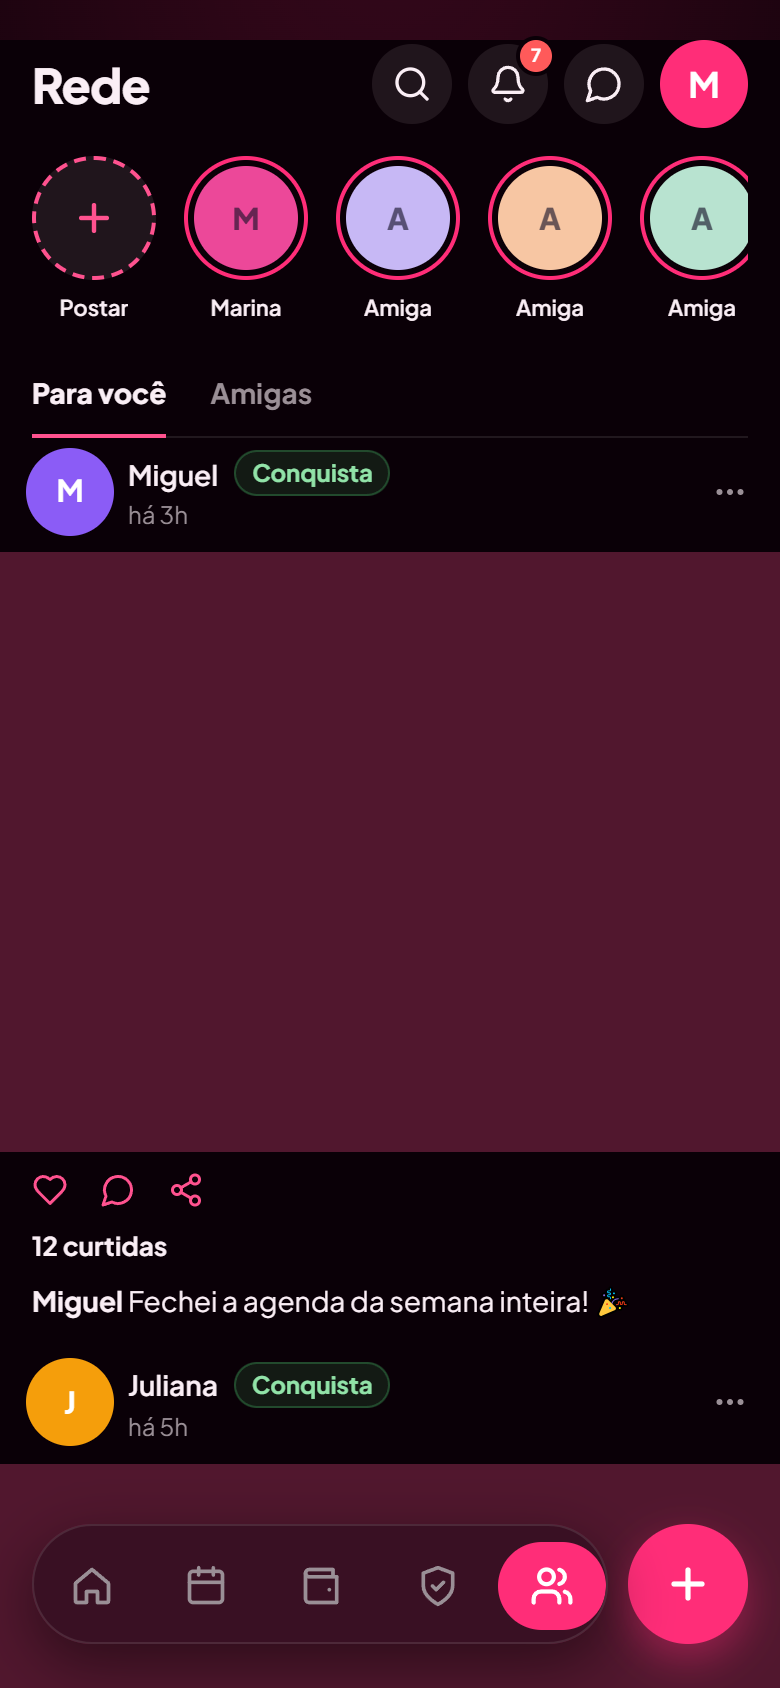
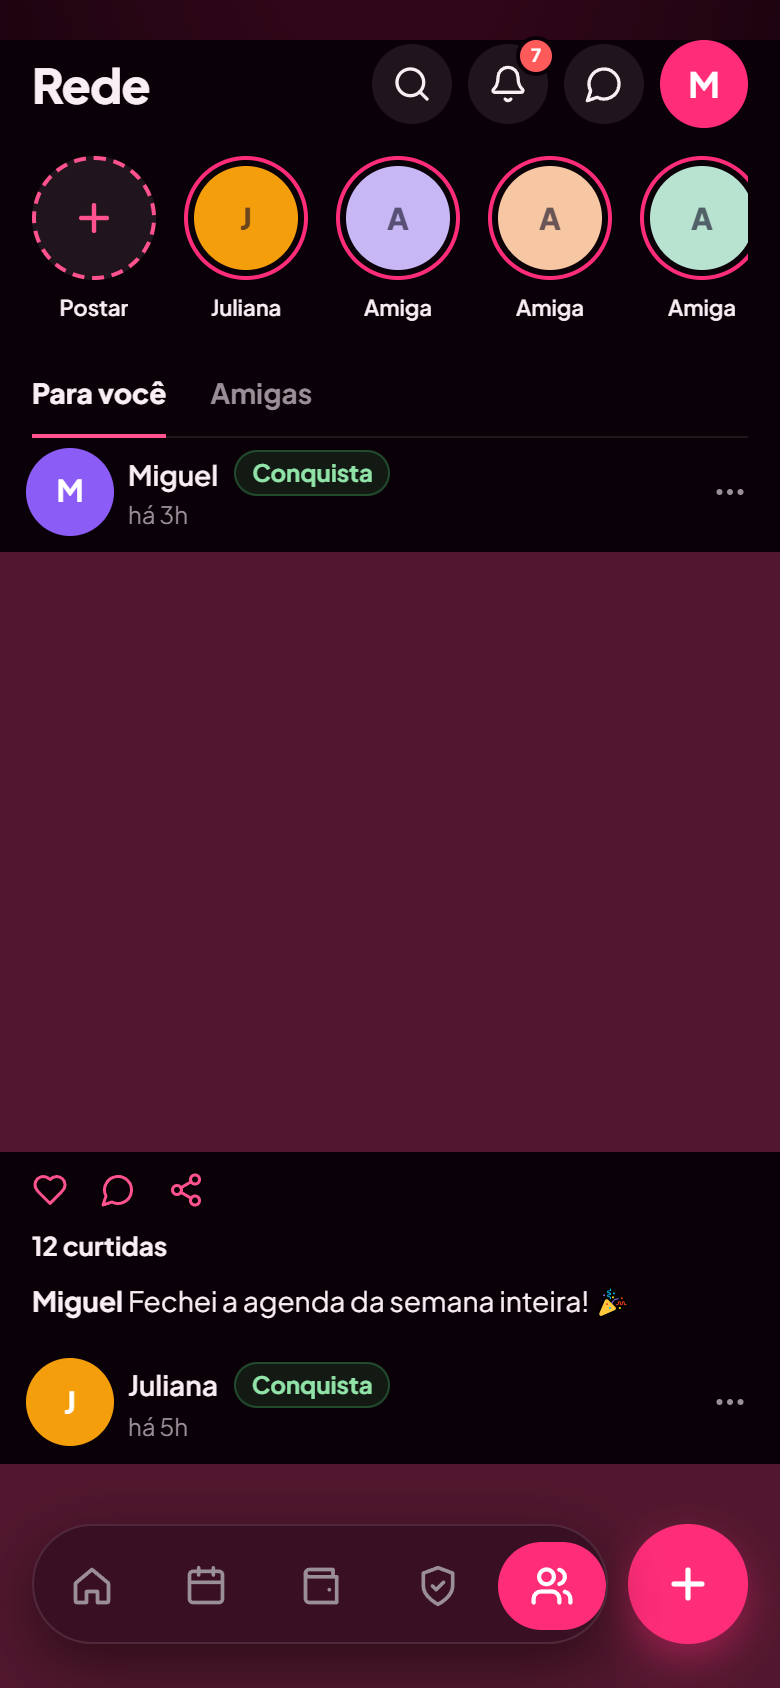
fix(pixel): amizade da Juliana e ordem da fileira de amigas
Erro meu no bloco anterior: o objeto de PERFIL da Juliana foi parar dentro do
array de amizades, com user_id e nome_exibicao no lugar de solicitante_id e
status. Ela ficava sem amizade aceita e o array levava uma linha malformada.
Agora é uma amizade de verdade, e o perfil segue onde sempre esteve.

A Marina foi para o fim do array, depois das 4 da referência, para a fileira
do topo começar pelas quatro que a referência desenha. Ela continua
alcançável deslizando; nenhuma amiga some.

O número de pixel praticamente não muda com isso (6,2538% para 6,2558%): a
ordem da fileira não vem do array, vem da consulta. Fica registrado para quem
for atacar esse resíduo. O conserto do dado vale por si.

Changed region(s): [[0.2462, 0.0924, 0.4, 0.1848]]

diff --git a/lib/mockAppData.ts b/lib/mockAppData.ts
@@ -438,16 +438,6 @@ export function buildMockAppSeed(opts?: {
       criado_em: daysFromNow(-18),
       atualizado_em: daysFromNow(-2),
     },
-    {
-      user_id: FRIEND_ID,
-      nome_exibicao: "Marina Alves",
-      cor_avatar: "#ec4899",
-      bio: "Extensão de cílios",
-      avatar_url: null,
-      area_atuacao: "Cílios",
-      criado_em: daysFromNow(-30),
-      atualizado_em: daysFromNow(-5),
-    },
     // As 4 da fileira da referência (tela Rede): mesmo nome, mesma inicial
     // e a mesma cor de avatar que ela desenha.
     {
@@ -470,6 +460,16 @@ export function buildMockAppSeed(opts?: {
       criado_em: daysFromNow(-29 + i),
       atualizado_em: daysFromNow(-4),
     })),
+    {
+      user_id: FRIEND_ID,
+      nome_exibicao: "Marina Alves",
+      cor_avatar: "#ec4899",
+      bio: "Extensão de cílios",
+      avatar_url: null,
+      area_atuacao: "Cílios",
+      criado_em: daysFromNow(-30),
+      atualizado_em: daysFromNow(-5),
+    },
   ];
   // 15 posts -- o suficiente pra exercitar a paginação do feed
   // (FEED_PAGE_SIZE = 10: página 1 cheia + página 2 com resto, `hasMore`
@@ -771,23 +771,17 @@ export function buildMockAppSeed(opts?: {
       rede_amizades: [
         // Marina aceita (era "pendente": a solicitação em aberto fazia
         // nascer um bloco que a referência não tem, acima da dobra).
+        // Marina é a amizade MAIS ANTIGA de propósito: a fileira do topo
+        // mostra as mais recentes primeiro, e a referência desenha as 4
+        // "Amiga N" nas quatro primeiras posições. Marina fica depois
+        // delas, alcançável deslizando.
         {
-          id: "mock-amizade-marina",
-          solicitante_id: FRIEND_ID,
+          id: "mock-amizade-juliana",
+          solicitante_id: "mock-amiga-juliana",
           destinatario_id: uid,
           status: "aceita",
-          criado_em: daysFromNow(-10),
-          respondido_em: daysFromNow(-9),
-        },
-        {
-          user_id: "mock-amiga-juliana",
-          nome_exibicao: "Juliana",
-          cor_avatar: "#f59e0b",
-          bio: "",
-          avatar_url: null,
-          area_atuacao: "",
           criado_em: daysFromNow(-26),
-          atualizado_em: daysFromNow(-3),
+          respondido_em: daysFromNow(-25),
         },
         ...AMIGAS_DA_REFERENCIA.map((a, i) => ({
           id: `mock-amizade-${a.id}`,
@@ -797,6 +791,14 @@ export function buildMockAppSeed(opts?: {
           criado_em: daysFromNow(-28 + i),
           respondido_em: daysFromNow(-27 + i),
         })),
+        {
+          id: "mock-amizade-marina",
+          solicitante_id: FRIEND_ID,
+          destinatario_id: uid,
+          status: "aceita",
+          criado_em: daysFromNow(-60),
+          respondido_em: daysFromNow(-59),
+        },
       ],
       rede_conversas: [],
       rede_conversas_participantes: [],

diff --git a/docs/jornada/prints/pixel/rede/rede-390-claro-pink-neon-estilos.md b/docs/jornada/prints/pixel/rede/rede-390-claro-pink-neon-estilos.md
@@ -2,8 +2,8 @@
 
 - mockup: `5-telas-8-temas-claro-escuro.html`
 - app: `http://localhost:3107/dev-preview/app`
-- pareados 91 · divergem 62 · só no mockup 22 · só no app 471
-- impacto total: **78.114**
+- pareados 91 · divergem 63 · só no mockup 22 · só no app 471
+- impacto total: **76.822**
 - famílias no mockup: plus jakarta sans (27)
 - famílias no app: plus jakarta sans (146)
 
@@ -40,18 +40,16 @@ Em cada célula: **mockup** → app.
 | 1.565 | “Juliana” | largura | `282px` → `44.9px` |
 | 1.565 | “Juliana” | altura | `21px` → `20px` |
 | 1.31 | “Rede” | largura | `214px` → `58.8px` |
-| 1.162 | “M” | fontSize | `15px` → `17.6px` |
-| 1.162 | “M” | fontWeight | `800` → `700` |
-| 1.162 | “M” | lineHeight | `22.5px` → `26.4px` |
-| 1.162 | “M” | borderRadius | `50% 50% 50% 50%` → `9999px 9999px 9999px 9999px` |
-| 1.162 | “M” | largura | `38px` → `44px` |
-| 1.162 | “M” | altura | `38px` → `44px` |
-| 1.162 | “J” | fontSize | `15px` → `17.6px` |
-| 1.162 | “J” | fontWeight | `800` → `700` |
-| 1.162 | “J” | lineHeight | `22.5px` → `26.4px` |
-| 1.162 | “J” | borderRadius | `50% 50% 50% 50%` → `9999px 9999px 9999px 9999px` |
-| 1.162 | “J” | largura | `38px` → `44px` |
-| 1.162 | “J” | altura | `38px` → `44px` |
+| 0.911 | “M” | fontWeight | `800` → `700` |
+| 0.911 | “M” | borderRadius | `50% 50% 50% 50%` → `9999px 9999px 9999px 9999px` |
+| 0.911 | “M” | padding | `0px 0px 0px 0px` → `3px 3px 3px 3px` |
+| 0.911 | “M” | largura | `38px` → `44px` |
+| 0.911 | “M” | altura | `38px` → `44px` |
+| 0.911 | “J” | fontWeight | `800` → `700` |
+| 0.911 | “J” | borderRadius | `50% 50% 50% 50%` → `9999px 9999px 9999px 9999px` |
+| 0.911 | “J” | padding | `0px 0px 0px 0px` → `3px 3px 3px 3px` |
+| 0.911 | “J” | largura | `38px` → `44px` |
+| 0.911 | “J” | altura | `38px` → `44px` |
 | 0.883 | “Amiga 1” | fontSize | `11px` → `15px` |
 | 0.883 | “Amiga 1” | lineHeight | `16.5px` → `22.5px` |
 | 0.883 | “Amiga 2” | fontSize | `11px` → `15px` |
@@ -77,7 +75,7 @@ Em cada célula: **mockup** → app.
 |  |  |  |  | lineHeight | `18px` → `22.5px` |
 |  |  |  |  | color | `rgb(29, 63, 122)` → `rgb(15, 15, 15)` |
 |  |  |  |  | backgroundColor | `rgb(230, 239, 253)` → `rgb(253, 227, 236)` |
-| 5 | 5.406 | article | 0,686 · 390x439 | altura | `438.5px` → `483.5px` |
+| 5 | 5.046 | article | 0,686 · 390x439 | altura | `438.5px` → `480.5px` |
 | 6 | 4.546 | nav | 16,762 · 288x60 | backgroundColor | `rgba(255, 255, 255, 0.74)` → `rgba(0, 0, 0, 0)` |
 |  |  |  |  | borderRadius | `30px 30px 30px 30px` → `0px 0px 0px 0px` |
 |  |  |  |  | boxShadow | `rgba(17, 17, 20, 0.14) 0px 10px 30px 0px` → `none` |
@@ -122,16 +120,14 @@ Em cada célula: **mockup** → app.
 | 19 | 1.31 | h1 “Rede” | 16,29 · 214x26 | largura | `214px` → `58.8px` |
 | 20 | 1.2 | div | 0,175 · 390x39 | largura | `390px` → `358px` |
 |  |  |  |  | altura | `39px` → `40.5px` |
-| 21 | 1.162 | span “M” | 16,228 · 38x38 | fontSize | `15px` → `17.6px` |
-|  |  |  |  | fontWeight | `800` → `700` |
-|  |  |  |  | lineHeight | `22.5px` → `26.4px` |
+| 21 | 0.911 | span “M” | 16,228 · 38x38 | fontWeight | `800` → `700` |
 |  |  |  |  | borderRadius | `50% 50% 50% 50%` → `9999px 9999px 9999px 9999px` |
+|  |  |  |  | padding | `0px 0px 0px 0px` → `3px 3px 3px 3px` |
 |  |  |  |  | largura | `38px` → `44px` |
 |  |  |  |  | altura | `38px` → `44px` |
-| 22 | 1.162 | span “J” | 16,686 · 38x38 | fontSize | `15px` → `17.6px` |
-|  |  |  |  | fontWeight | `800` → `700` |
-|  |  |  |  | lineHeight | `22.5px` → `26.4px` |
+| 22 | 0.911 | span “J” | 16,686 · 38x38 | fontWeight | `800` → `700` |
 |  |  |  |  | borderRadius | `50% 50% 50% 50%` → `9999px 9999px 9999px 9999px` |
+|  |  |  |  | padding | `0px 0px 0px 0px` → `3px 3px 3px 3px` |
 |  |  |  |  | largura | `38px` → `44px` |
 |  |  |  |  | altura | `38px` → `44px` |
 | 23 | 0.883 | div “Amiga 1” | 92,76 · 62x85 | fontSize | `11px` → `15px` |
@@ -157,48 +153,45 @@ Em cada célula: **mockup** → app.
 | 34 | 0.697 | span | 286,22 · 40x40 | borderRadius | `50% 50% 50% 50%` → `9999px 9999px 9999px 9999px` |
 | 35 | 0.363 | div | 0,22 · 390x40 | gap | `8px` → `normal` |
 |  |  |  |  | altura | `40px` → `44px` |
-| 36 | 0.29 | svg | 332,780 · 24x24 | color | `rgb(255, 255, 255)` → `rgb(15, 15, 15)` |
-| 37 | 0.284 | div | 64,228 · 282x38 | largura | `282px` → `276px` |
-|  |  |  |  | altura | `37.5px` → `41px` |
-| 38 | 0.284 | div | 64,686 · 282x38 | largura | `282px` → `276px` |
-|  |  |  |  | altura | `37.5px` → `41px` |
-| 39 | 0.277 | div “há 3h” | 64,249 · 282x17 | fontSize | `11px` → `12px` |
-|  |  |  |  | lineHeight | `16.5px` → `16px` |
-|  |  |  |  | largura | `282px` → `276px` |
-|  |  |  |  | altura | `16.5px` → `16px` |
-| 40 | 0.277 | div “há 5h” | 64,707 · 282x17 | fontSize | `11px` → `12px` |
-|  |  |  |  | lineHeight | `16.5px` → `16px` |
-|  |  |  |  | largura | `282px` → `276px` |
-|  |  |  |  | altura | `16.5px` → `16px` |
-| 41 | 0.268 | svg | 36,96 · 22x22 | fontSize | `11px` → `15px` |
+| 36 | 0.36 | article | 0,228 · 390x439 | altura | `438.5px` → `435.5px` |
+| 37 | 0.29 | svg | 332,780 · 24x24 | color | `rgb(255, 255, 255)` → `rgb(15, 15, 15)` |
+| 38 | 0.268 | svg | 36,96 · 22x22 | fontSize | `11px` → `15px` |
 |  |  |  |  | lineHeight | `16.5px` → `22.5px` |
-| 42 | 0.212 | div | 0,228 · 390x38 | altura | `38px` → `44px` |
-| 43 | 0.212 | div | 0,686 · 390x38 | altura | `38px` → `44px` |
-| 44 | 0.169 | div | 0,586 · 390x24 | altura | `24px` → `18px` |
-| 45 | 0.169 | div | 0,1044 · 390x24 | altura | `24px` → `18px` |
-| 46 | 0.147 | path | 98,588 · 20x20 | color | `rgb(15, 15, 15)` → `rgb(214, 16, 92)` |
+| 39 | 0.169 | div | 0,586 · 390x24 | altura | `24px` → `18px` |
+| 40 | 0.169 | div | 0,1044 · 390x24 | altura | `24px` → `18px` |
+| 41 | 0.159 | div “há 3h” | 64,249 · 282x17 | fontSize | `11px` → `12px` |
+|  |  |  |  | lineHeight | `16.5px` → `16px` |
+|  |  |  |  | altura | `16.5px` → `16px` |
+| 42 | 0.159 | div “há 5h” | 64,707 · 282x17 | fontSize | `11px` → `12px` |
+|  |  |  |  | lineHeight | `16.5px` → `16px` |
+|  |  |  |  | altura | `16.5px` → `16px` |
+| 43 | 0.147 | path | 98,588 · 20x20 | color | `rgb(15, 15, 15)` → `rgb(214, 16, 92)` |
 |  |  |  |  | largura | `20px` → `18px` |
 |  |  |  |  | altura | `20px` → `18px` |
-| 47 | 0.147 | path | 98,1046 · 20x20 | color | `rgb(15, 15, 15)` → `rgb(214, 16, 92)` |
+| 44 | 0.147 | path | 98,1046 · 20x20 | color | `rgb(15, 15, 15)` → `rgb(214, 16, 92)` |
 |  |  |  |  | largura | `20px` → `18px` |
 |  |  |  |  | altura | `20px` → `18px` |
-| 48 | 0.136 | path | 18,589 · 21x18 | color | `rgb(15, 15, 15)` → `rgb(214, 16, 92)` |
+| 45 | 0.136 | path | 18,589 · 21x18 | color | `rgb(15, 15, 15)` → `rgb(214, 16, 92)` |
 |  |  |  |  | largura | `20.8px` → `18px` |
-| 49 | 0.136 | path | 18,1047 · 21x18 | color | `rgb(15, 15, 15)` → `rgb(214, 16, 92)` |
+| 46 | 0.136 | path | 18,1047 · 21x18 | color | `rgb(15, 15, 15)` → `rgb(214, 16, 92)` |
 |  |  |  |  | largura | `20.8px` → `18px` |
-| 50 | 0.115 | path | 59,591 · 18x16 | color | `rgb(15, 15, 15)` → `rgb(214, 16, 92)` |
+| 47 | 0.131 | path | 59,591 · 18x16 | color | `rgb(15, 15, 15)` → `rgb(214, 16, 92)` |
+|  |  |  |  | largura | `18px` → `14.3px` |
+|  |  |  |  | altura | `15.9px` → `14.3px` |
+| 48 | 0.115 | path | 59,1049 · 18x16 | color | `rgb(15, 15, 15)` → `rgb(214, 16, 92)` |
 |  |  |  |  | altura | `15.9px` → `18px` |
-| 51 | 0.115 | path | 59,1049 · 18x16 | color | `rgb(15, 15, 15)` → `rgb(214, 16, 92)` |
-|  |  |  |  | altura | `15.9px` → `18px` |
-| 52 | 0.086 | svg | 356,238 · 18x18 | color | `rgb(15, 15, 15)` → `rgb(107, 107, 116)` |
-| 53 | 0.086 | svg | 356,696 · 18x18 | color | `rgb(15, 15, 15)` → `rgb(107, 107, 116)` |
-| 54 | 0.077 | span “Amigas” | 105,175 · 51x38 | altura | `38px` → `44px` |
-| 55 | 0.074 | span “Para você” | 16,175 · 67x39 | altura | `39px` → `44px` |
-| 56 | 0.016 | path | 299,34 · 15x13 | largura | `15px` → `15.8px` |
+| 49 | 0.106 | div | 0,228 · 390x38 | altura | `38px` → `41px` |
+| 50 | 0.106 | div | 0,686 · 390x38 | altura | `38px` → `41px` |
+| 51 | 0.105 | div | 64,228 · 282x38 | altura | `37.5px` → `41px` |
+| 52 | 0.105 | div | 64,686 · 282x38 | altura | `37.5px` → `41px` |
+| 53 | 0.086 | svg | 356,238 · 18x18 | color | `rgb(15, 15, 15)` → `rgb(107, 107, 116)` |
+| 54 | 0.086 | svg | 356,696 · 18x18 | color | `rgb(15, 15, 15)` → `rgb(107, 107, 116)` |
+| 55 | 0.077 | span “Amigas” | 105,175 · 51x38 | altura | `38px` → `44px` |
+| 56 | 0.074 | span “Para você” | 16,175 · 67x39 | altura | `39px` → `44px` |
+| 57 | 0.016 | path | 299,34 · 15x13 | largura | `15px` → `15.8px` |
 |  |  |  |  | altura | `12.5px` → `15.8px` |
-| 57 | 0.007 | circle | 359,246 · 2x2 | color | `rgb(15, 15, 15)` → `rgb(107, 107, 116)` |
-| 58 | 0.007 | circle | 364,246 · 2x2 | color | `rgb(15, 15, 15)` → `rgb(107, 107, 116)` |
-| 59 | 0.007 | circle | 370,246 · 2x2 | color | `rgb(15, 15, 15)` → `rgb(107, 107, 116)` |
-| 60 | 0.007 | circle | 359,704 · 2x2 | color | `rgb(15, 15, 15)` → `rgb(107, 107, 116)` |
+| 58 | 0.007 | circle | 359,246 · 2x2 | color | `rgb(15, 15, 15)` → `rgb(107, 107, 116)` |
+| 59 | 0.007 | circle | 364,246 · 2x2 | color | `rgb(15, 15, 15)` → `rgb(107, 107, 116)` |
+| 60 | 0.007 | circle | 370,246 · 2x2 | color | `rgb(15, 15, 15)` → `rgb(107, 107, 116)` |
 
-_(2 elementos de impacto menor omitidos)_
+_(3 elementos de impacto menor omitidos)_
